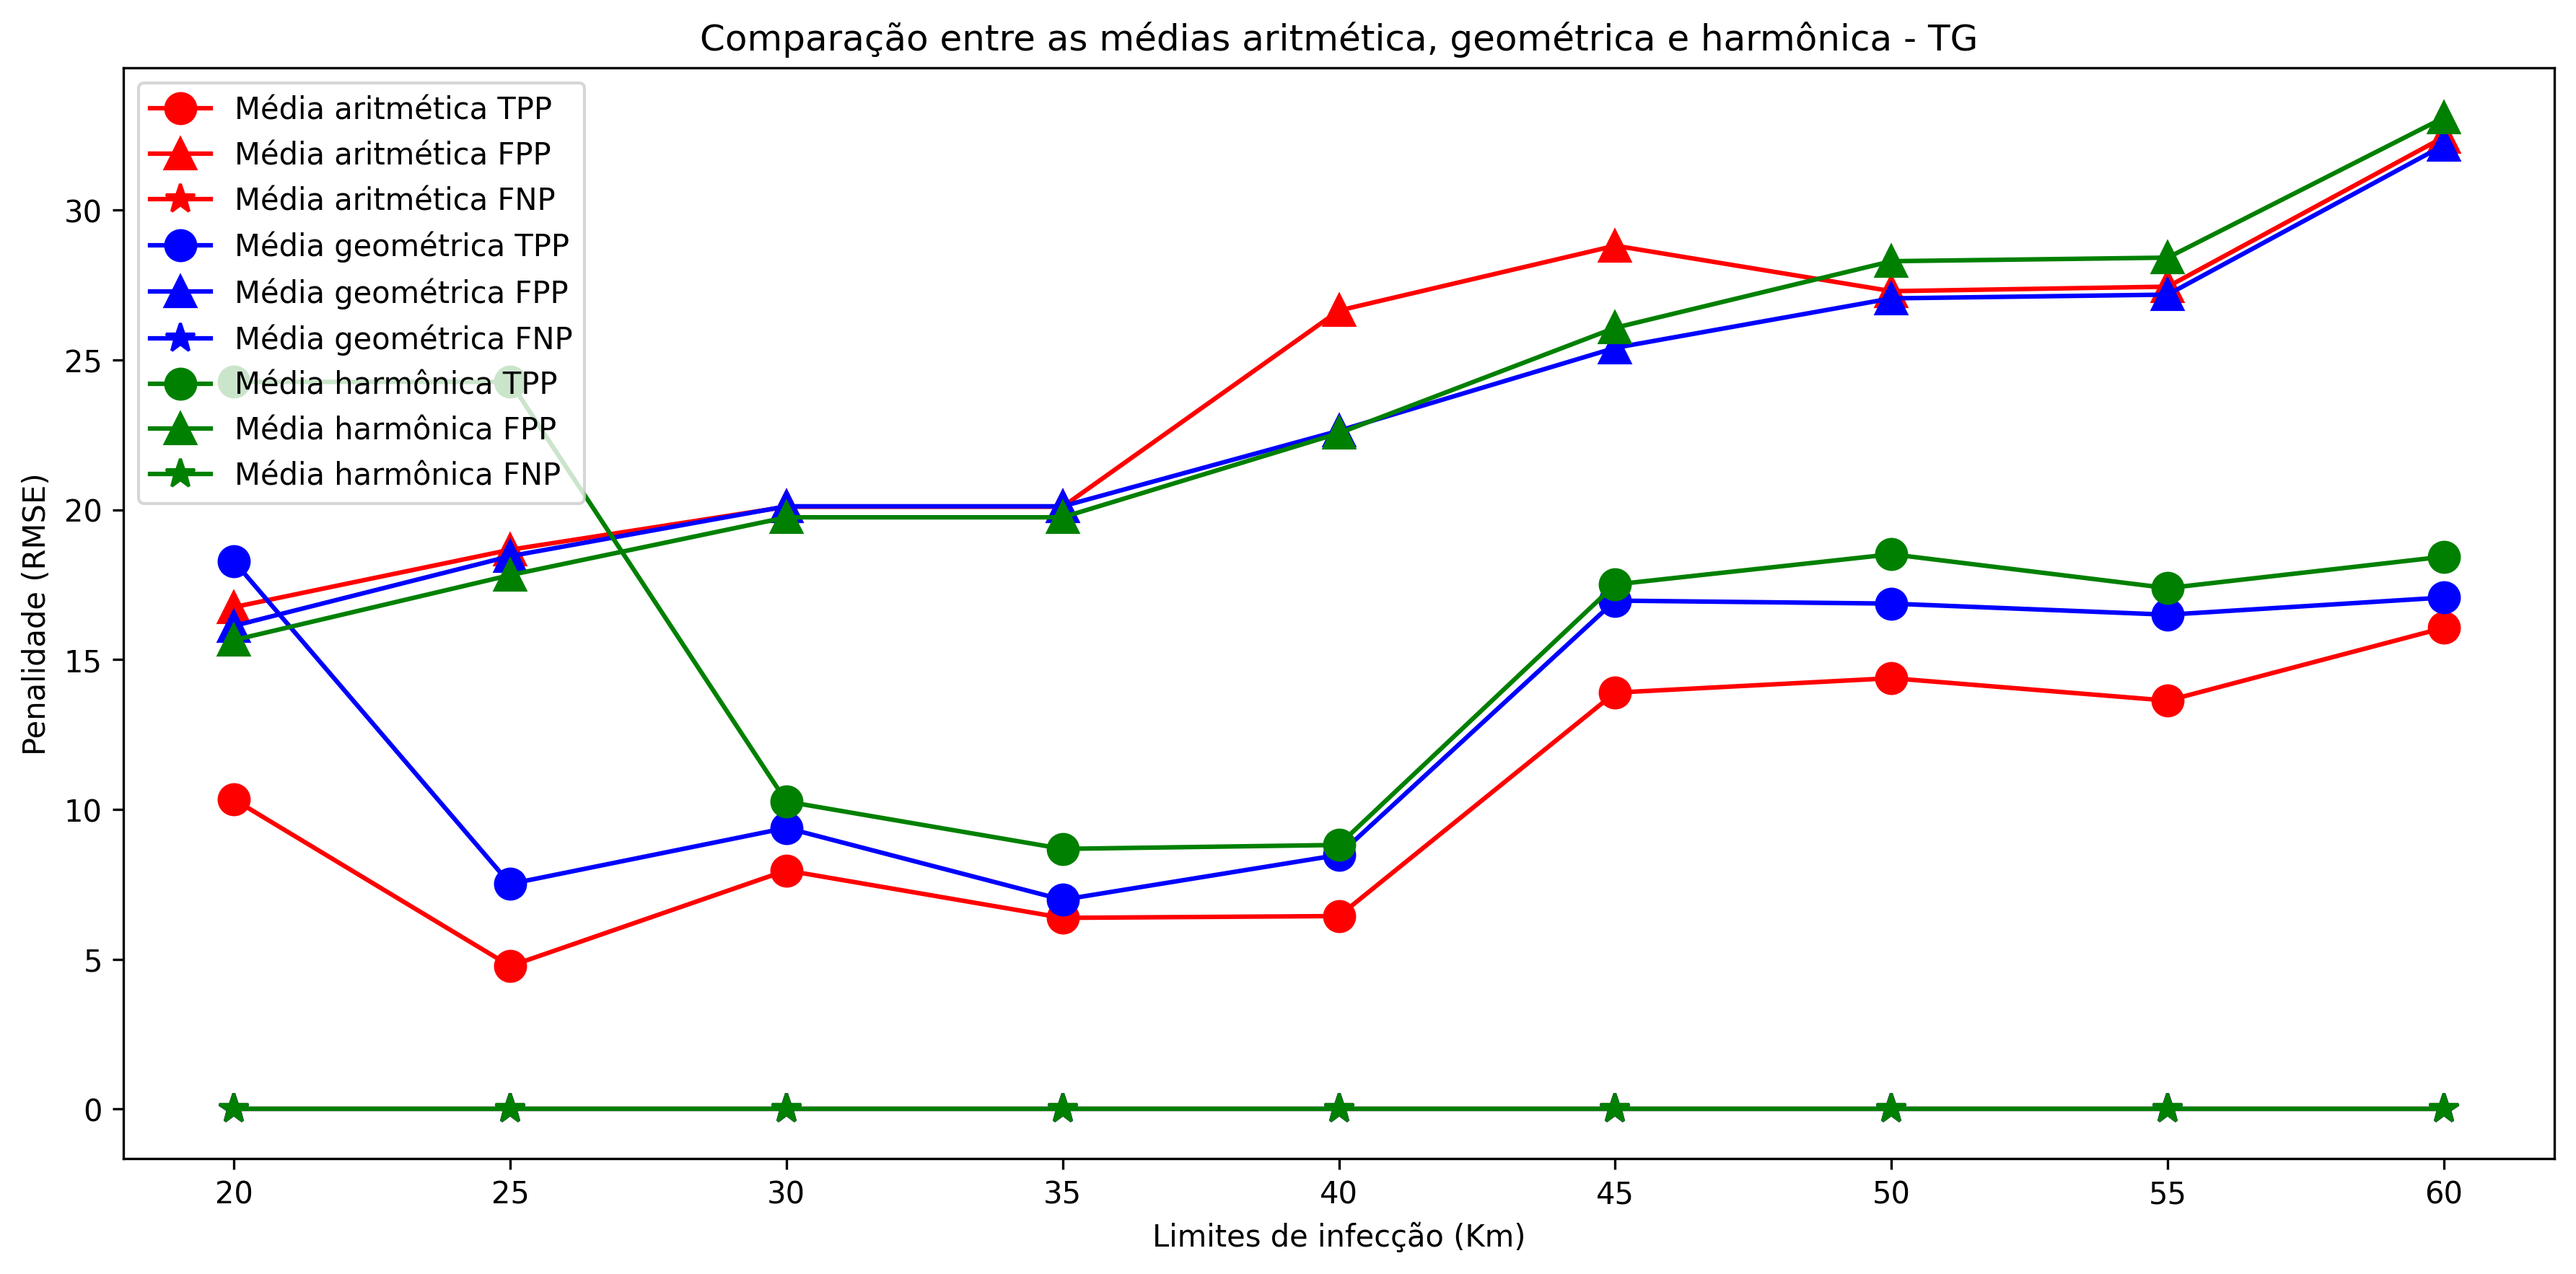
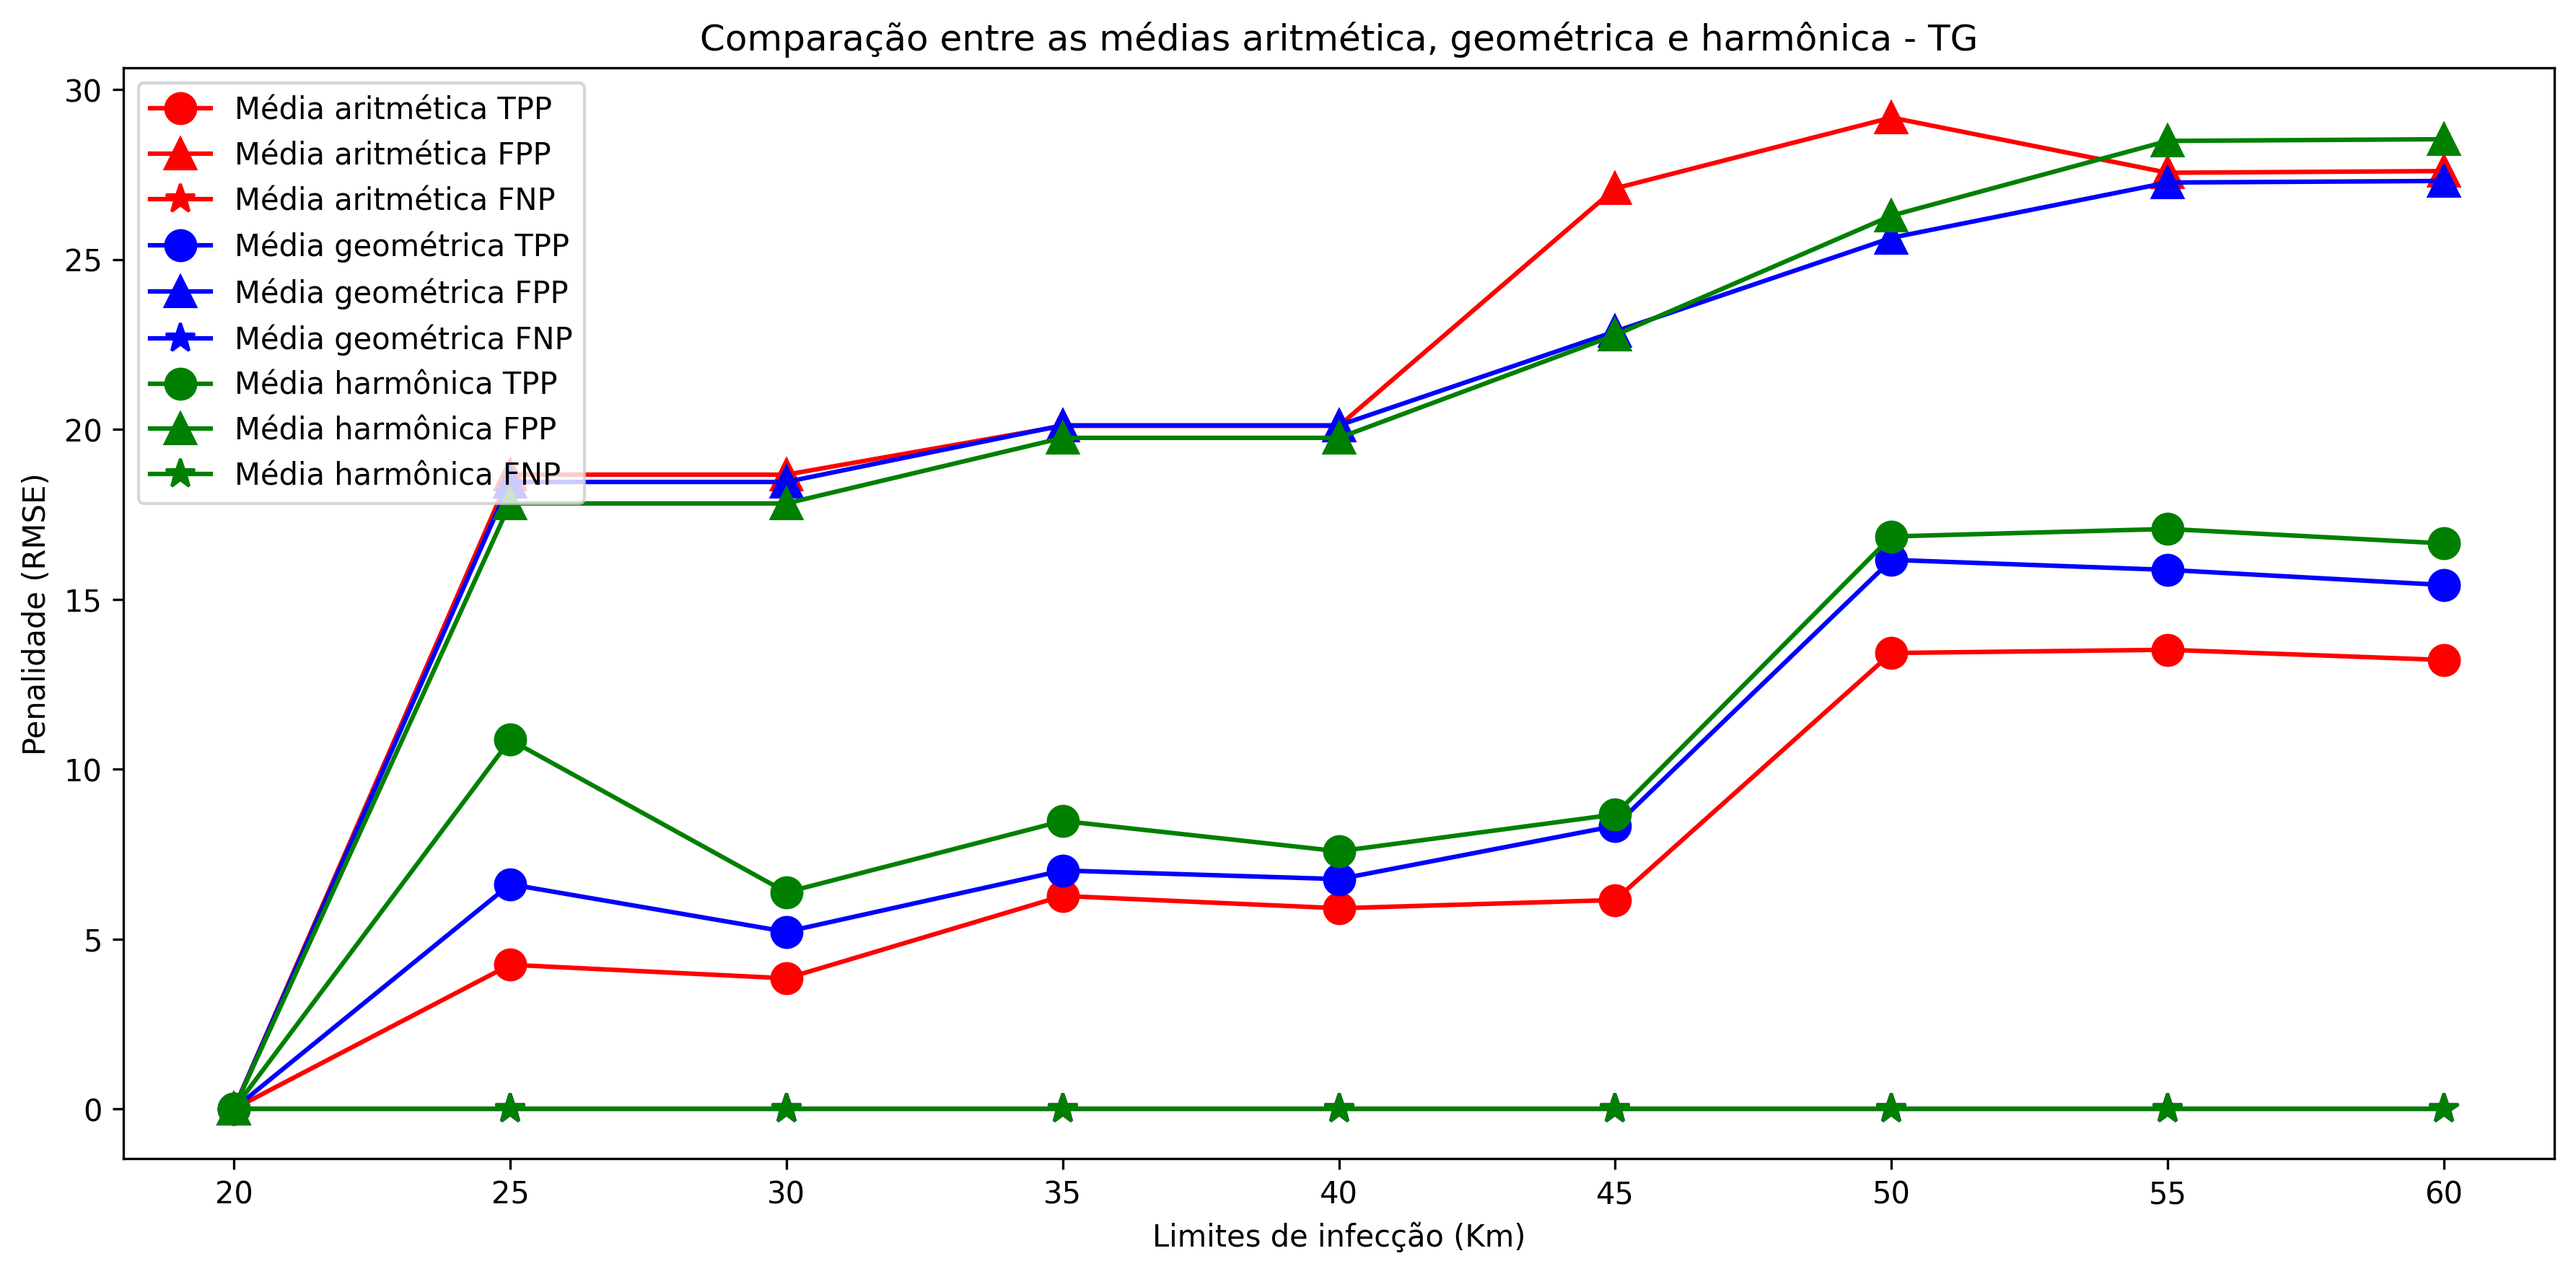
some graphs

diff --git a/Results/Search_for_parameter/defined_bases/normal_files/mean_CGT.py b/Results/Search_for_parameter/defined_bases/normal_files/mean_CGT.py
@@ -1,0 +1,46 @@
+import matplotlib.pyplot as plt
+import pandas as pd
+import numpy as np
+
+cgt_data = pd.read_csv(r'G:\My Drive\IC\Codes\Results\Search_for_parameter\defined_bases\normal_files\results_CGT.csv', decimal='.', sep=',')
+
+cgt_data = cgt_data.drop(columns=['Distance function', 'Days function', 'Train file used'])
+
+# Set all values on TPP and FPP column that are zero 10 1e-10
+cgt_data['TPP'] = cgt_data['TPP'].replace(0, 1e-10)
+cgt_data['FPP'] = cgt_data['FPP'].replace(0, 1e-10)
+cgt_data['FNP'] = cgt_data['FNP'].replace(0, 1e-10)
+
+harvestA = cgt_data[cgt_data['Test file used'] == 'coletoressafra2021_31_23']
+harvestB = cgt_data[cgt_data['Test file used'] == 'coletoressafra2122_31_23']
+harvestC = cgt_data[cgt_data['Test file used'] == 'coletoressafra2223_31_23']
+
+harvestA = harvestA.query('Radius >= 55')
+harvestB = harvestB.query('Radius >= 55')
+harvestC = harvestC.query('Radius >= 55')
+
+print(harvestA)
+
+# fig, ax = plt.subplots(figsize=(12, 6))
+
+# ax.plot(harvestA['Radius'], harvestA['TPP'], 'o-', label=f'Colheita A TPP', color='red', markersize=10)
+# ax.plot(harvestA['Radius'], harvestA['FPP'], '^-', label=f'Colheita A FPP', color='red', markersize=10)
+# # ax.plot(harvestA['Radius'], harvestA['FNP'], '*-', label=f'Colheita A FNP', color='red', markersize=10)
+# ax.plot(harvestB['Radius'], harvestB['TPP'], 'o-', label=f'Colheita B TPP', color='blue', markersize=10)
+# ax.plot(harvestB['Radius'], harvestB['FPP'], '^-', label=f'Colheita B FPP', color='blue', markersize=10)
+# # ax.plot(harvestB['Radius'], harvestB['FNP'], '*-', label=f'Colheita B FNP', color='blue', markersize=10)
+# ax.plot(harvestC['Radius'], harvestC['TPP'], 'o-', label=f'Colheita C TPP', color='green', markersize=10)
+# ax.plot(harvestC['Radius'], harvestC['FPP'], '^-', label=f'Colheita C FPP', color='green', markersize=10)
+# # ax.plot(harvestC['Radius'], harvestC['FNP'], '*-', label=f'Colheita C FNP', color='green', markersize=10)
+
+# ax.set_title(f'Comparação entre as colheitas A, B e C - CGT - Penalidade TPP e FPP - apenas válidos')
+# ax.set_xlabel('Limites de infecção (Km)')
+# ax.set_ylabel('Penalidade (RMSE)')
+# ax.legend()
+# ax.set_xticks(np.arange(55, 65, 5))
+# # ax.set_yscale('log')
+
+# plt.tight_layout()
+
+# # Save the plot on a wide version
+# plt.savefig(f'G:/My Drive/IC/Codes/Results/Search_for_parameter/defined_bases/normal_files/CGT_TPP_FPP_apenas_validos.png', dpi=300, bbox_inches='tight')

diff --git a/Results/Search_for_parameter/mean_chosen.py b/Results/Search_for_parameter/mean_chosen.py
@@ -1,13 +1,13 @@
 import pandas as pd
 import matplotlib.pyplot as plt
 
-CGNT = pd.read_csv(r'G:/Meu Drive/IC/Codes/Results/Search_for_parameter/defined_bases/learned_files/results_CGNT.csv'.replace('//', '/'))
-MG = pd.read_csv(r'G:/Meu Drive/IC/Codes/Results/Search_for_parameter/defined_bases/learned_files/results_MG.csv'.replace('//', '/'))
-TG = pd.read_csv(r'G:/Meu Drive/IC/Codes/Results/Search_for_parameter/defined_bases/learned_files/results_TG.csv'.replace('//', '/'))
+CGNT = pd.read_csv(r'G:/My Drive/IC/Codes/Results/Search_for_parameter/defined_bases/learned_files/results_CGNT.csv'.replace('//', '/'))
+MG = pd.read_csv(r'G:/My Drive/IC/Codes/Results/Search_for_parameter/defined_bases/learned_files/results_MG.csv'.replace('//', '/'))
+TG = pd.read_csv(r'G:/My Drive/IC/Codes/Results/Search_for_parameter/defined_bases/learned_files/results_TG.csv'.replace('//', '/'))
 
-arit = MG[MG['Test file used'] == 'arithmetic_mean_31_23']
-geom = MG[MG['Test file used'] == 'geometric_mean_31_23']
-harm = MG[MG['Test file used'] == 'harmonic_mean_31_23']
+arit = TG[TG['Test file used'] == 'arithmetic_mean_31_23']
+geom = TG[TG['Test file used'] == 'geometric_mean_31_23']
+harm = TG[TG['Test file used'] == 'harmonic_mean_31_23']
 
 # Create a figure and plot the data on it
 fig, ax = plt.subplots(figsize=(12, 6))
@@ -22,7 +22,7 @@ ax.plot(harm['Radius'], harm['TPP'], 'o-', label=f'Média harmônica TPP', color
 ax.plot(harm['Radius'], harm['FPP'], '^-', label=f'Média harmônica FPP', color='green', markersize=10)
 ax.plot(harm['Radius'], harm['FNP'], '*-', label=f'Média harmônica FNP', color='green', markersize=10)
 
-ax.set_title(f'Comparação entre as médias aritmética, geométrica e harmônica - MG')
+ax.set_title(f'Comparação entre as médias aritmética, geométrica e harmônica - TG')
 ax.set_xlabel('Limites de infecção (Km)')
 ax.set_ylabel('Penalidade (RMSE)')
 ax.legend()
@@ -30,4 +30,4 @@ ax.legend()
 plt.tight_layout()
 
 # Save the plot on a wide version
-plt.savefig(f'G:/Meu Drive/IC/Codes/Results/Search_for_parameter/defined_bases/learned_files/means_comparison_MG.png', dpi=300, bbox_inches='tight')
+plt.savefig(f'G:/My Drive/IC/Codes/Results/Search_for_parameter/defined_bases/learned_files/means_comparison_TG.png', dpi=300, bbox_inches='tight')
